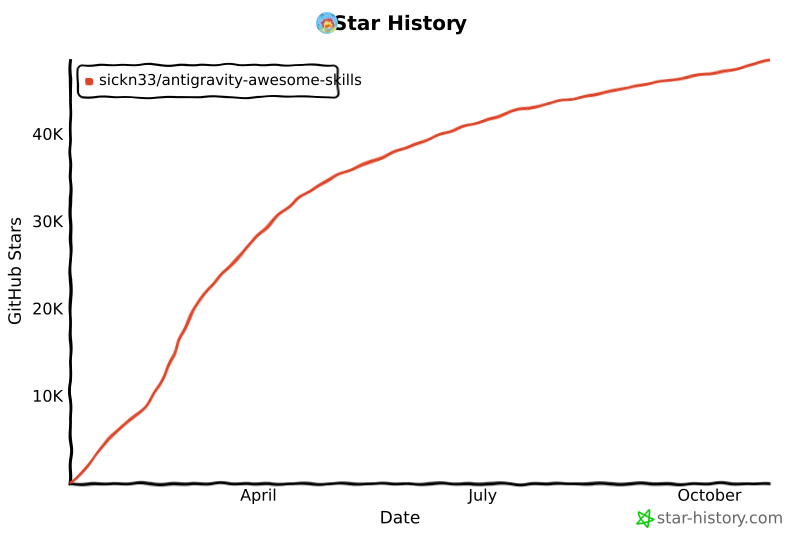
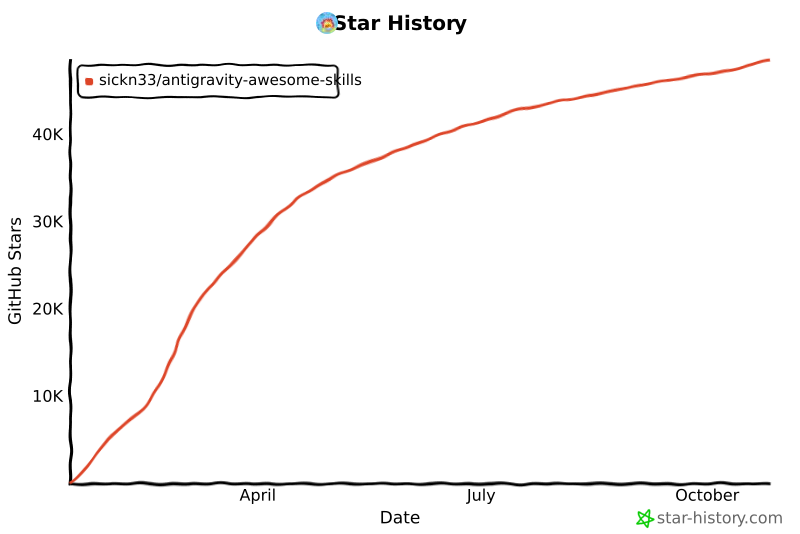
chore: update star history chart

diff --git a/README.md b/README.md
@@ -520,14 +520,14 @@ We officially thank the following contributors for their help in making this rep
 ## Star History
 
 <a href="https://www.star-history.com/#sickn33/antigravity-awesome-skills&type=date&legend=top-left">
- <img alt="Star History Chart" src="https://api.star-history.com/svg?repos=sickn33/antigravity-awesome-skills&type=date&legend=top-left&cache_bust=202610260607" />
+ <img alt="Star History Chart" src="https://api.star-history.com/svg?repos=sickn33/antigravity-awesome-skills&type=date&legend=top-left&cache_bust=202610270606" />
 </a>
 
 <a href="https://www.star-history.com/sickn33/antigravity-awesome-skills">
  <picture>
-   <source media="(prefers-color-scheme: dark)" srcset="https://api.star-history.com/chart?repos=sickn33/antigravity-awesome-skills&style=landscape1&theme=dark&cache_bust=202610260607" />
-   <source media="(prefers-color-scheme: light)" srcset="https://api.star-history.com/chart?repos=sickn33/antigravity-awesome-skills&style=landscape1&cache_bust=202610260607" />
-   <img alt="Star History Chart" src="https://api.star-history.com/chart?repos=sickn33/antigravity-awesome-skills&style=landscape1&cache_bust=202610260607" />
+   <source media="(prefers-color-scheme: dark)" srcset="https://api.star-history.com/chart?repos=sickn33/antigravity-awesome-skills&style=landscape1&theme=dark&cache_bust=202610270606" />
+   <source media="(prefers-color-scheme: light)" srcset="https://api.star-history.com/chart?repos=sickn33/antigravity-awesome-skills&style=landscape1&cache_bust=202610270606" />
+   <img alt="Star History Chart" src="https://api.star-history.com/chart?repos=sickn33/antigravity-awesome-skills&style=landscape1&cache_bust=202610270606" />
  </picture>
 </a>
 
